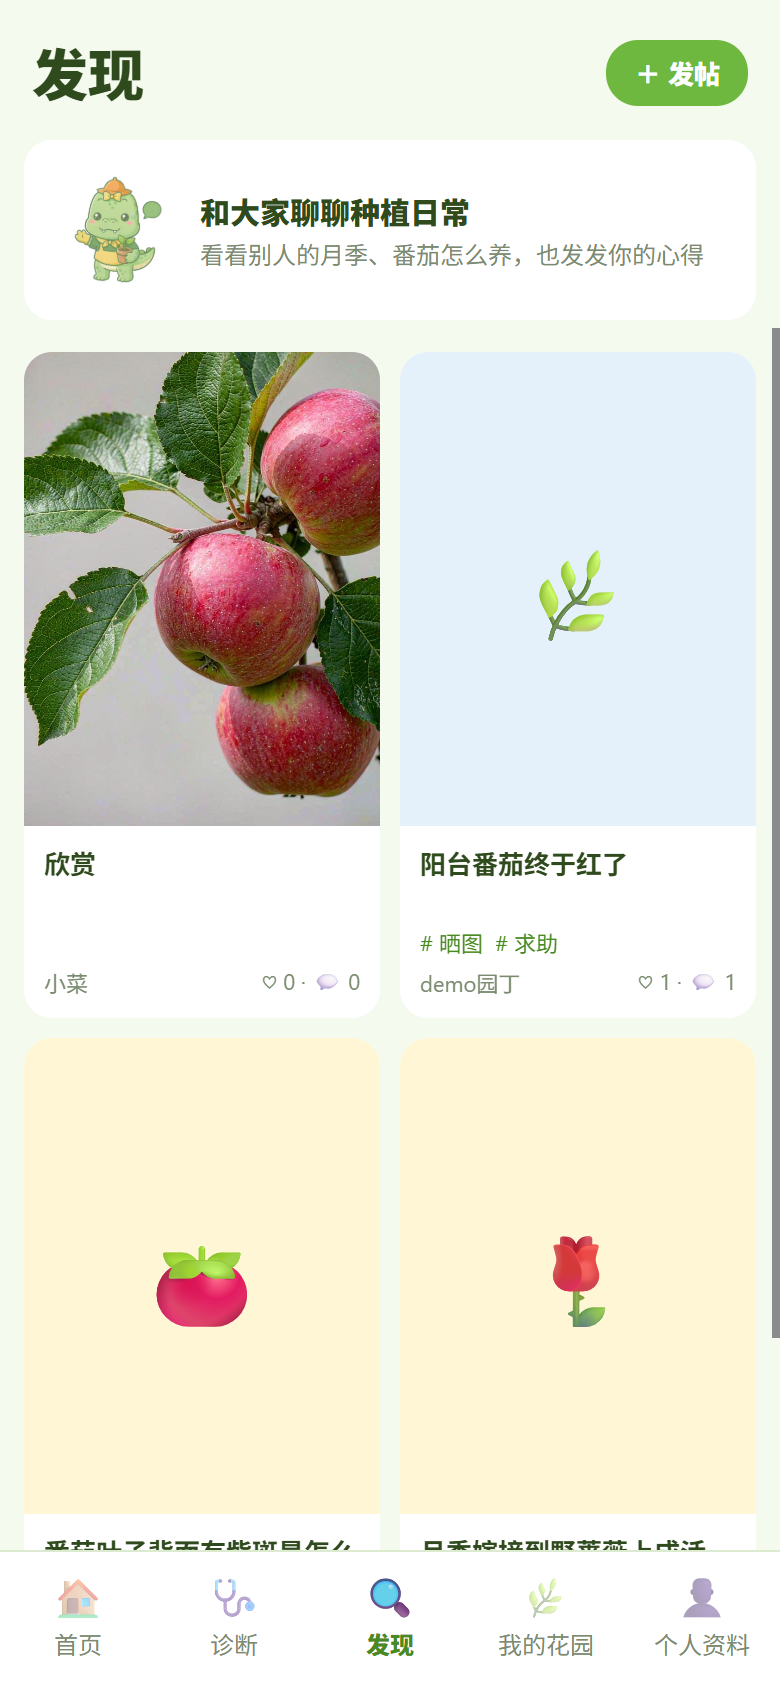
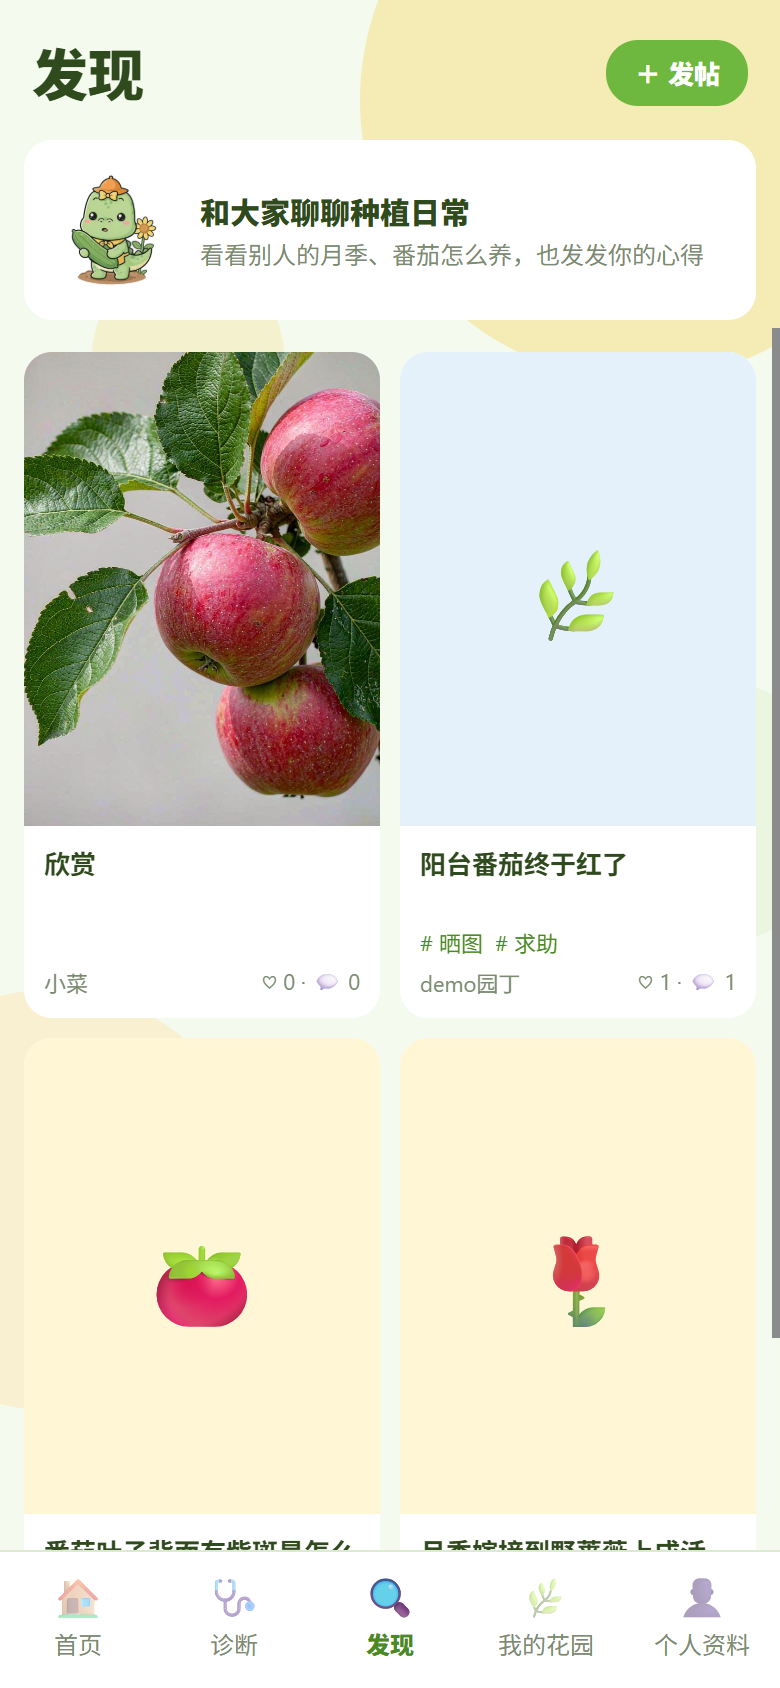
README 截图更新为新 IP 形象版本（新增 capture_readme.js 一键重抓五个 tab）

Changed region(s): [[0.4615, 0.0, 1.0, 0.2156], [0.0923, 0.0924, 0.3692, 0.2156], [0.0, 0.5853, 0.2154, 0.8318]]

diff --git a/frontend/scripts/capture_readme.js b/frontend/scripts/capture_readme.js
@@ -1,0 +1,57 @@
+// 重抓 README 展示用的手机端截图（5 个 tab，390x844@2x，带 demo 登录态）
+const fs = require('fs');
+const http = require('http');
+
+const TOKENS = JSON.parse(fs.readFileSync(__dirname + '/.tokens.json', 'utf8'));
+const DEMO = TOKENS.demo;
+const ORIGIN = 'http://localhost:3000';
+const OUT = 'E:\\大三上\\医学人工智能导论\\docs\\screenshots\\';
+
+function getTargets() {
+  return new Promise((resolve, reject) => {
+    http.get('http://127.0.0.1:9222/json/list', (res) => {
+      let buf = '';
+      res.on('data', (d) => (buf += d));
+      res.on('end', () => { try { resolve(JSON.parse(buf)); } catch (e) { reject(e); } });
+    }).on('error', reject);
+  });
+}
+
+async function shot(page, out, url, waitMs = 3200) {
+  const ws = new WebSocket(page.webSocketDebuggerUrl);
+  let id = 0;
+  const pending = new Map();
+  await new Promise((r) => ws.addEventListener('open', r));
+  ws.addEventListener('message', (ev) => {
+    const m = JSON.parse(ev.data);
+    if (m.id && pending.has(m.id)) { pending.get(m.id)(m.result); pending.delete(m.id); }
+  });
+  const send = (method, params = {}) => new Promise((res) => {
+    const mid = ++id; pending.set(mid, res); ws.send(JSON.stringify({ id: mid, method, params }));
+  });
+  await send('Page.enable');
+  await send('Emulation.setDeviceMetricsOverride', { width: 390, height: 844, deviceScaleFactor: 2, mobile: true });
+  await send('Page.navigate', { url: ORIGIN });
+  await new Promise((r) => setTimeout(r, 1500));
+  await send('Runtime.evaluate', {
+    expression: `localStorage.setItem('graftcheck_token', ${JSON.stringify(DEMO)});`,
+  });
+  await send('Page.navigate', { url: 'about:blank' });
+  await new Promise((r) => setTimeout(r, 500));
+  await send('Page.navigate', { url });
+  await new Promise((r) => setTimeout(r, waitMs));
+  const s = await send('Page.captureScreenshot', { format: 'png' });
+  fs.writeFileSync(out, Buffer.from(s.data, 'base64'));
+  console.log('saved ' + out);
+  ws.close();
+}
+
+(async () => {
+  const list = await getTargets();
+  const page = list.find((t) => t.type === 'page');
+  const tabs = ['home', 'identify', 'discover', 'garden', 'profile'];
+  for (const t of tabs) {
+    await shot(page, OUT + t + '.png', `${ORIGIN}/?cb=${Date.now()}#${t}`, t === 'home' ? 3800 : 3200);
+  }
+  process.exit(0);
+})().catch((e) => { console.error(e.message); process.exit(1); });
